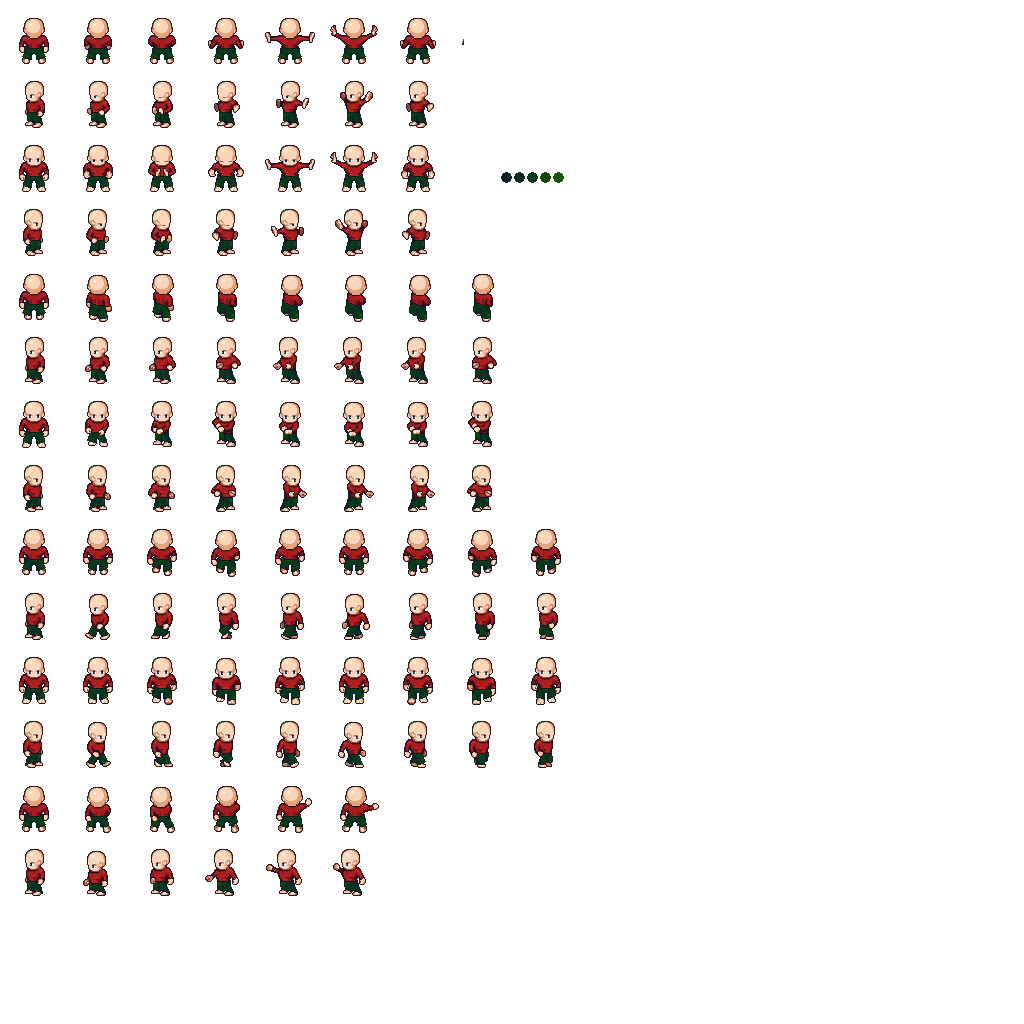
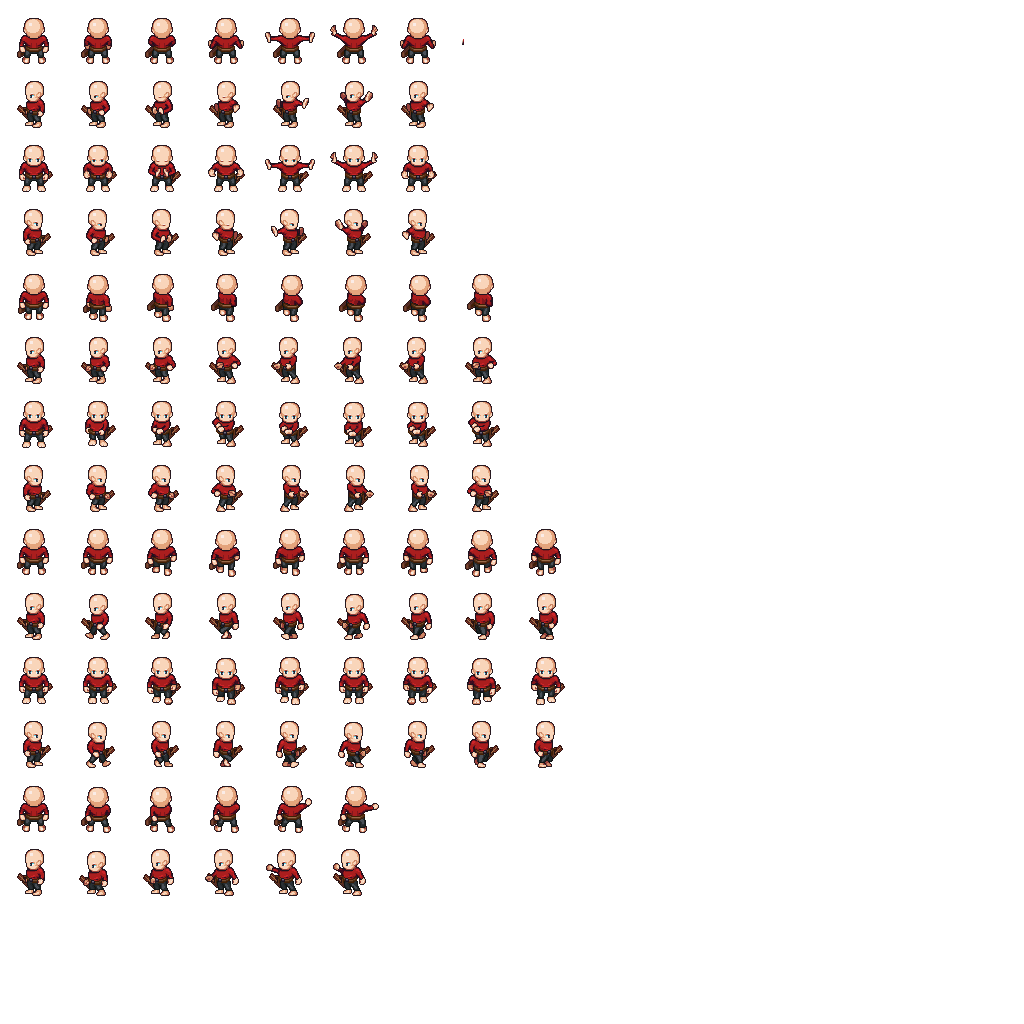
add ammo

diff --git a/core/src/ua/org/petroff/game/engine/entities/player/Telegraph.java b/core/src/ua/org/petroff/game/engine/entities/player/Telegraph.java
@@ -1,8 +1,9 @@
 package ua.org.petroff.game.engine.entities.player;
 
 import ua.org.petroff.game.engine.characters.enemies.Enemy;
+import ua.org.petroff.game.engine.entities.equipments.AmmoInterface;
 import ua.org.petroff.game.engine.entities.equipments.PotionInterface;
-import ua.org.petroff.game.engine.entities.hud.HUD;
+import ua.org.petroff.game.engine.entities.equipments.ammo.Ammo;
 import ua.org.petroff.game.engine.interfaces.StateInterface;
 import ua.org.petroff.game.engine.interfaces.WorldInterface;
 import ua.org.petroff.game.engine.weapons.WeaponInterface;
@@ -41,19 +42,15 @@ public class Telegraph implements com.badlogic.gdx.ai.msg.Telegraph {
             case EQUIPMENT:
                 if (msg.extraInfo instanceof PotionInterface) {
                     player.changeLife(((PotionInterface) msg.extraInfo).getValue());
-                } else if (msg.extraInfo instanceof ua.org.petroff.game.engine.entities.equipments.WeaponInterface
-                        && !player.weapon.getSlotWeapons().contains(((ua.org.petroff.game.engine.entities.equipments.WeaponInterface) msg.extraInfo).getWeaponType())) {
-                    int slot = player.weapon.getSlotWeapons().indexOf(player.weapon.getWeapon());
-                    if (slot == 0) {
-                        slot = 1;
-                    }
-
-                    player.weapon.getSlotWeapons().add(slot, ((ua.org.petroff.game.engine.entities.equipments.WeaponInterface) msg.extraInfo).getWeaponType());
-                    player.weapon.addAmmo(((ua.org.petroff.game.engine.entities.equipments.WeaponInterface) msg.extraInfo).getAmmo());
-
-                    if (player.weapon.getSlotWeapons().size() >= HUD.COUNTSLOT) {
-                        player.weapon.getSlotWeapons().remove(HUD.COUNTSLOT);
-                    }
+                } else if (msg.extraInfo instanceof AmmoInterface) {
+                    AmmoInterface ammo = (AmmoInterface) msg.extraInfo;
+                    player.weapon.addAmmo(ammo.getWeaponType(), ammo.getAmmo());
+                } else if (msg.extraInfo instanceof ua.org.petroff.game.engine.entities.equipments.WeaponInterface) {
+                    ua.org.petroff.game.engine.entities.equipments.WeaponInterface weaponNew = (ua.org.petroff.game.engine.entities.equipments.WeaponInterface) msg.extraInfo;
+                    player.weapon.addToSlot(
+                            weaponNew.getWeaponType(),
+                            Ammo.getAmmo(weaponNew.getWeaponType())
+                    );
                 } else if (msg.extraInfo instanceof ua.org.petroff.game.engine.entities.equipments.shield.Shield && !player.ability.hasShield()) {
                     player.ability.setShieldStatus(true);
                 }

diff --git a/core/src/ua/org/petroff/game/engine/entities/player/Weapon.java b/core/src/ua/org/petroff/game/engine/entities/player/Weapon.java
@@ -3,6 +3,8 @@ package ua.org.petroff.game.engine.entities.player;
 import java.util.ArrayList;
 import java.util.Arrays;
 import java.util.Collections;
+import java.util.HashMap;
+import ua.org.petroff.game.engine.entities.hud.HUD;
 import static ua.org.petroff.game.engine.entities.player.Player.FIRE_ARROW_DAMAGE;
 import static ua.org.petroff.game.engine.entities.player.Player.FIRE_ARROW_FORCE;
 import static ua.org.petroff.game.engine.entities.player.Player.FIRE_DAMAGE;
@@ -14,8 +16,9 @@ public class Weapon {
 
     private final GameResources gameResources;
     private ArrayList<WeaponInterface.Type> slotWeapons = new ArrayList<>(Collections.unmodifiableList(Arrays.asList(WeaponInterface.Type.BARE)));
+    private HashMap<WeaponInterface.Type, Integer> ammo = new HashMap<>();
+
     private WeaponInterface.Type weapon = WeaponInterface.Type.BARE;
-    private int ammo = 0;
 
     public Weapon(GameResources gameResources) {
         this.gameResources = gameResources;
@@ -23,6 +26,10 @@ public class Weapon {
 
     public ArrayList<WeaponInterface.Type> getSlotWeapons() {
         return slotWeapons;
+    }
+
+    public HashMap<WeaponInterface.Type, Integer> getAllAmmo() {
+        return ammo;
     }
 
     public WeaponInterface.Type getWeapon() {
@@ -33,11 +40,20 @@ public class Weapon {
         this.weapon = weapon;
     }
 
-    public void addAmmo(int ammo) {
-        this.ammo = this.ammo + ammo;
+    public void addAmmo(WeaponInterface.Type weaponNew, int ammoToAdd) {
+        ammo.merge(weaponNew, ammoToAdd, Integer::sum);
     }
 
     public void sendFire(Player player) {
+
+        if (WeaponInterface.rangedWeapon.contains(weapon)) {
+            if (ammo.getOrDefault(weapon, 0) <= 0) {
+                return;
+            }
+            ammo.merge(weapon, -1, Integer::sum);
+            player.sendPlayerStatus();
+        }
+
         switch (weapon) {
             case BARE:
                 gameResources.getMessageManger().dispatchMessage(
@@ -69,6 +85,28 @@ public class Weapon {
                 break;
 
         }
+    }
+
+    public void addToSlot(WeaponInterface.Type weaponNew, int ammoAdd) {
+        if (slotWeapons.contains(weaponNew)) {
+            return;
+        }
+
+        int slot = slotWeapons.indexOf(weapon);
+        if (slot == 0) {
+            slot = 1;
+        }
+
+        slotWeapons.add(slot, weaponNew);
+        addAmmo(weaponNew, ammoAdd);
+
+        if (slotWeapons.size() >= HUD.COUNTSLOT) {
+            slotWeapons.remove(HUD.COUNTSLOT);
+        }
+    }
+
+    public Integer getAmmo() {
+        return ammo.getOrDefault(weapon, 0);
     }
 
 }

diff --git a/core/src/ua/org/petroff/game/engine/entities/hud/View.java b/core/src/ua/org/petroff/game/engine/entities/hud/View.java
@@ -26,12 +26,12 @@ import ua.org.petroff.game.engine.weapons.WeaponInterface;
 
 public class View implements ViewInterface, GraphicQueueMemberInterface, QueueDrawInterface {
 
-    
     private Stage stage;
     private ExtendViewport viewport;
     private Table table;
     private Label lifeLabel;
     private Label deadLabel;
+    private Label ammoLabel;
 
     private final Assets asset;
     private final GraphicResources graphicResources;
@@ -40,6 +40,7 @@ public class View implements ViewInterface, GraphicQueueMemberInterface, QueueDr
     private Map<WeaponInterface.Type, Image> weaponImages = new HashMap<>();
     private ArrayList<Image> slots = new ArrayList<>();
     private Image shieldImage;
+    private Image ammoImage;
 
     public View(Assets asset, GraphicResources graphicResources, HUD model) {
         this.asset = asset;
@@ -75,6 +76,19 @@ public class View implements ViewInterface, GraphicQueueMemberInterface, QueueDr
                 slots.get(i).setScale(1.3f);
             }
         }
+
+    }
+
+    public void drawAmmo(Integer ammo) {
+        if (ammo > 0) {
+            ammoLabel.setText(ammo.toString());
+            ammoLabel.setVisible(true);
+            ammoImage.setVisible(true);
+            return;
+        }
+
+        ammoLabel.setVisible(false);
+        ammoImage.setVisible(false);
     }
 
     public void showShield(boolean show) {
@@ -104,6 +118,11 @@ public class View implements ViewInterface, GraphicQueueMemberInterface, QueueDr
         TextureRegion shieldTexture = new TextureRegion(shieldRegion, 0, 0, 50, 51);
         shieldImage = new Image(shieldTexture);
         shieldImage.setVisible(false);
+
+        TextureAtlas.AtlasRegion ammoRegion = atlas.findRegion("quiver_hud");
+        TextureRegion ammoTexture = new TextureRegion(ammoRegion, 0, 0, 16, 50);
+        ammoImage = new Image(ammoTexture);
+        ammoImage.setVisible(false);
 
         TextureAtlas.AtlasRegion emptyRegion = atlas.findRegion("empty");
         TextureRegion emptyTexture = new TextureRegion(emptyRegion, 0, 0, 19, 49);
@@ -141,6 +160,11 @@ public class View implements ViewInterface, GraphicQueueMemberInterface, QueueDr
         table.add(lifeGroup)
                 .left()
                 .expandX().padTop(10);
+
+        ammoLabel = new Label("", skin);
+        ammoLabel.setFontScale(2);
+        table.add(ammoImage).padTop(10);
+        table.add(ammoLabel).expandX().padLeft(-100).padTop(10);
 
         table.add(shieldImage).expandX().padTop(10);
 

diff --git a/core/src/ua/org/petroff/game/engine/entities/equipments/ammo/Ammo.java b/core/src/ua/org/petroff/game/engine/entities/equipments/ammo/Ammo.java
@@ -1,0 +1,45 @@
+package ua.org.petroff.game.engine.entities.equipments.ammo;
+
+import ua.org.petroff.game.engine.entities.equipments.AmmoInterface;
+import ua.org.petroff.game.engine.entities.equipments.View;
+import ua.org.petroff.game.engine.entities.equipments.EquipmentUsing;
+import ua.org.petroff.game.engine.scenes.core.GameResources;
+import ua.org.petroff.game.engine.scenes.core.GraphicResources;
+import ua.org.petroff.game.engine.util.Assets;
+import ua.org.petroff.game.engine.weapons.WeaponInterface;
+
+public class Ammo extends EquipmentUsing implements AmmoInterface {
+
+    public static final String DESCRIPTOR = "ammo";
+
+    private final static int BODYWIDTH = 14;
+    private final static int BODYHEIGHT = 14;
+
+    private final ua.org.petroff.game.engine.weapons.WeaponInterface.Type weapon;
+
+    public Ammo(int x, int y, Assets asset, GameResources gameResources, GraphicResources graphicResources, String objectType) {
+        super(x, y, BODYWIDTH, BODYHEIGHT, asset, gameResources, graphicResources);
+        view = new View(asset, graphicResources, this, DESCRIPTOR);
+        weapon = ua.org.petroff.game.engine.weapons.WeaponInterface.Type.valueOf(objectType);
+    }
+
+    @Override
+    public int getAmmo() {
+        return getAmmo(weapon);
+    }
+
+    @Override
+    public WeaponInterface.Type getWeaponType() {
+        return weapon;
+    }
+
+    public static int getAmmo(ua.org.petroff.game.engine.weapons.WeaponInterface.Type weaponType) {
+        switch (weaponType) {
+            case BOW:
+                return 10;
+        }
+
+        return 0;
+    }
+
+}

diff --git a/core/src/ua/org/petroff/game/engine/entities/equipments/weapon/Weapon.java b/core/src/ua/org/petroff/game/engine/entities/equipments/weapon/Weapon.java
@@ -14,36 +14,26 @@ public class Weapon extends EquipmentUsing implements WeaponInterface {
     private final static int BODYWIDTH = 14;
     private final static int BODYHEIGHT = 14;
 
-    private String objectType;
+    private final String objectType;
 
     public Weapon(int x, int y, Assets asset, GameResources gameResources, GraphicResources graphicResources, String objectType) {
         super(x, y, BODYWIDTH, BODYHEIGHT, asset, gameResources, graphicResources);
         this.objectType = objectType;
-        view = new View(asset, graphicResources, this, objectType);
+        view = new View(asset, graphicResources, this, objectType.toLowerCase());
     }
 
     @Override
     public ua.org.petroff.game.engine.weapons.WeaponInterface.Type getWeaponType() {
+        switch (ua.org.petroff.game.engine.weapons.WeaponInterface.Type.valueOf(objectType)) {
 
-        switch (objectType) {
-
-            case "bow":
+            case BOW:
                 return ua.org.petroff.game.engine.weapons.WeaponInterface.Type.BOW;
 
-            case "sword":
+            case SWORD:
                 return ua.org.petroff.game.engine.weapons.WeaponInterface.Type.SWORD;
 
         }
         return ua.org.petroff.game.engine.weapons.WeaponInterface.Type.BARE;
-    }
-
-    @Override
-    public int getAmmo() {
-        if (objectType == "bow") {
-            return 10;
-        }
-
-        return 0;
     }
 
 }

diff --git a/core/src/ua/org/petroff/game/engine/entities/equipments/EquipmentFactory.java b/core/src/ua/org/petroff/game/engine/entities/equipments/EquipmentFactory.java
@@ -3,6 +3,7 @@ package ua.org.petroff.game.engine.entities.equipments;
 import com.badlogic.gdx.maps.MapObject;
 import com.badlogic.gdx.utils.Array;
 import java.util.ArrayList;
+import ua.org.petroff.game.engine.entities.equipments.ammo.Ammo;
 import ua.org.petroff.game.engine.entities.equipments.box.Box;
 import ua.org.petroff.game.engine.entities.equipments.health.Health;
 import ua.org.petroff.game.engine.entities.equipments.shield.Shield;
@@ -44,6 +45,11 @@ public class EquipmentFactory {
                 case Weapon.DESCRIPTOR:
                     String subType = equipment.getProperties().get("sub_type", String.class);
                     entities.add(new Weapon(x, y, asset, gameResources, graphicResources, subType));
+                    break;
+                    
+                case Ammo.DESCRIPTOR:
+                    String subTypeAmmo = equipment.getProperties().get("sub_type", String.class);
+                    entities.add(new Ammo(x, y, asset, gameResources, graphicResources, subTypeAmmo));
                     break;
             }
 

diff --git a/core/src/ua/org/petroff/game/engine/entities/player/Player.java b/core/src/ua/org/petroff/game/engine/entities/player/Player.java
@@ -5,10 +5,6 @@ import com.badlogic.gdx.ai.msg.Telegram;
 import com.badlogic.gdx.maps.MapObject;
 import com.badlogic.gdx.math.Vector2;
 import com.badlogic.gdx.math.Vector3;
-import com.badlogic.gdx.physics.box2d.PolygonShape;
-import java.util.ArrayList;
-import java.util.Arrays;
-import java.util.Collections;
 import ua.org.petroff.game.engine.interfaces.EntityInterface;
 import ua.org.petroff.game.engine.interfaces.WorldInterface;
 import ua.org.petroff.game.engine.characters.creature.CreatureInterface;
@@ -17,9 +13,7 @@ import ua.org.petroff.game.engine.scenes.core.GraphicResources;
 import ua.org.petroff.game.engine.util.Assets;
 import ua.org.petroff.game.engine.interfaces.StateInterface;
 import ua.org.petroff.game.engine.characters.creature.Creature;
-import ua.org.petroff.game.engine.characters.creature.equipment.Shield;
 import ua.org.petroff.game.engine.interfaces.SkinInterface;
-import ua.org.petroff.game.engine.weapons.WeaponInterface;
 
 public class Player extends Creature implements EntityInterface, StateInterface, CreatureInterface {
 

diff --git a/core/src/ua/org/petroff/game/engine/characters/graphicLoaders/RangedWeaponGraphic.java b/core/src/ua/org/petroff/game/engine/characters/graphicLoaders/RangedWeaponGraphic.java
@@ -77,12 +77,12 @@ public class RangedWeaponGraphic implements GraphicLoaderInterface {
         Animation hitAnimationStay = new Animation(0.1f, (Object[]) creatureRegionsHit);
 
         for (int i = 0; i < creatureRegionsFireRight.length; i++) {
-            creatureRegionsFireRight[i] = new TextureRegion(creatureTexture2, 64 * i, 320, 64, 64);
+            creatureRegionsFireRight[i] = new TextureRegion(creatureTexture2, 64 * i, 322, 64, 64);
         }
         Animation fireAnimationRight = new Animation(0.1f, (Object[]) creatureRegionsFireRight);
 
         for (int i = 0; i < creatureRegionsFireLeft.length; i++) {
-            creatureRegionsFireLeft[i] = new TextureRegion(creatureTexture2, 64 * i, 188, 64, 64);
+            creatureRegionsFireLeft[i] = new TextureRegion(creatureTexture2, 64 * i, 194, 64, 64);
         }
         Animation fireAnimationLeft = new Animation(0.1f, (Object[]) creatureRegionsFireLeft);
 

diff --git a/core/src/ua/org/petroff/game/engine/entities/hud/HUD.java b/core/src/ua/org/petroff/game/engine/entities/hud/HUD.java
@@ -48,6 +48,7 @@ public class HUD implements EntityInterface, SupplierViewInterface, Telegraph {
                 Player player = ((Player) tlgrm.extraInfo);
                 currentLife = player.getCurrentLife();
                 view.drawSlots(player.weapon.getSlotWeapons(), player.weapon.getWeapon());
+                view.drawAmmo(player.weapon.getAmmo());
                 view.showShield(player.ability.hasShield());
                 break;
         }

diff --git a/core/src/ua/org/petroff/game/engine/scenes/level1/Level1Container.java b/core/src/ua/org/petroff/game/engine/scenes/level1/Level1Container.java
@@ -22,7 +22,6 @@ import ua.org.petroff.game.engine.entities.map.GameWorld;
 import ua.org.petroff.game.engine.entities.player.Controller;
 import ua.org.petroff.game.engine.entities.weapons.melee.MeleeWeaponFactory;
 import ua.org.petroff.game.engine.util.Assets;
-import ua.org.petroff.game.engine.interfaces.ActionEntityInterface;
 
 public class Level1Container implements ContainerInterface {
 

diff --git a/core/src/ua/org/petroff/game/engine/entities/equipments/WeaponInterface.java b/core/src/ua/org/petroff/game/engine/entities/equipments/WeaponInterface.java
@@ -3,7 +3,5 @@ package ua.org.petroff.game.engine.entities.equipments;
 public interface WeaponInterface {
 
     public ua.org.petroff.game.engine.weapons.WeaponInterface.Type getWeaponType();
-    
-    public int getAmmo();
 
 }

diff --git a/core/src/ua/org/petroff/game/engine/entities/equipments/AmmoInterface.java b/core/src/ua/org/petroff/game/engine/entities/equipments/AmmoInterface.java
@@ -1,0 +1,8 @@
+package ua.org.petroff.game.engine.entities.equipments;
+
+public interface AmmoInterface extends WeaponInterface{
+
+    public int getAmmo();
+    
+     
+}
